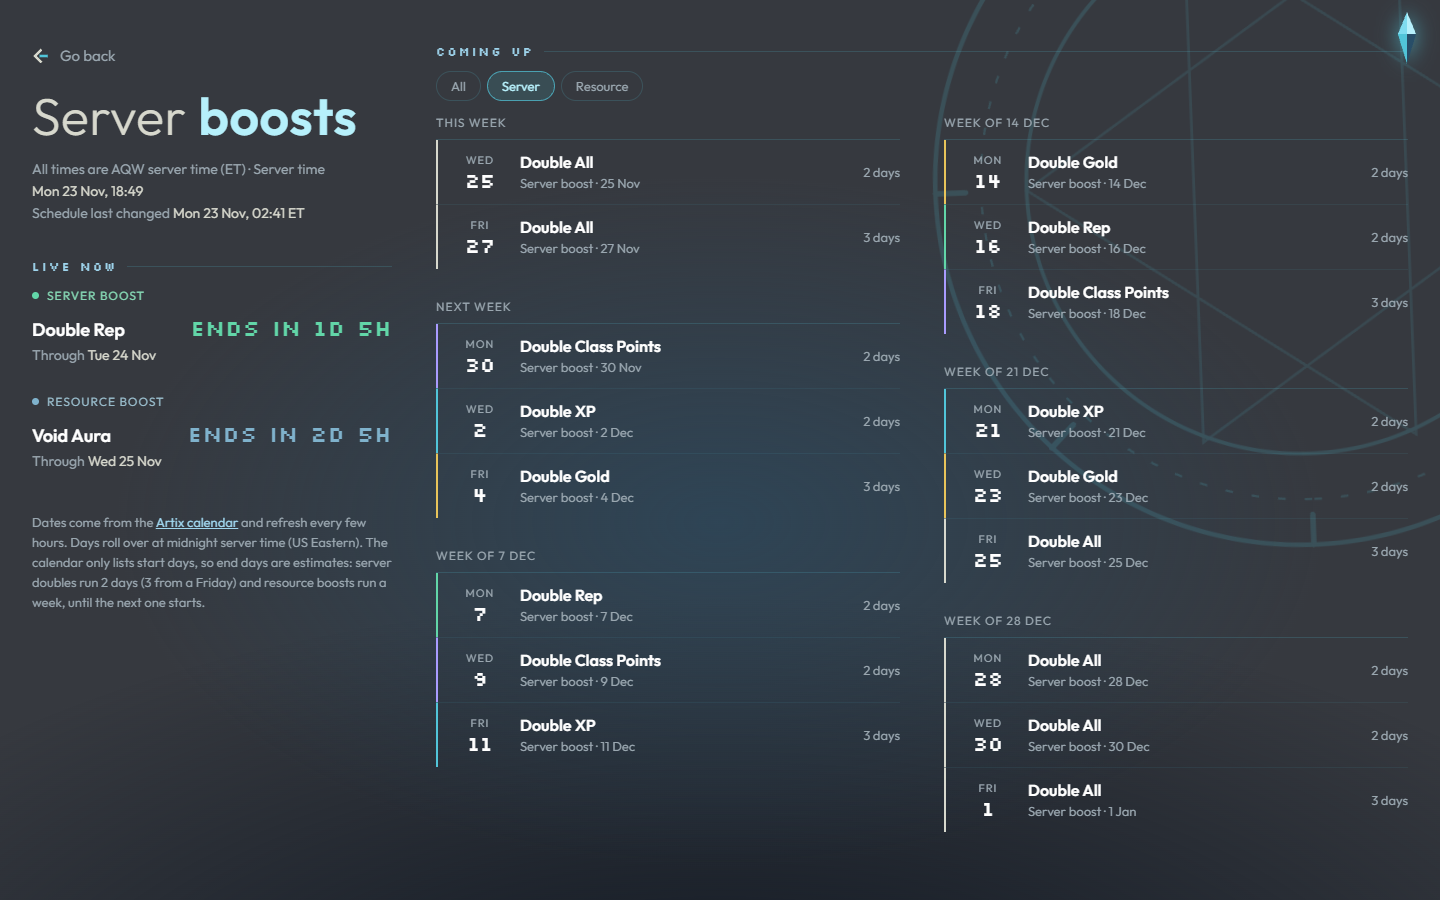
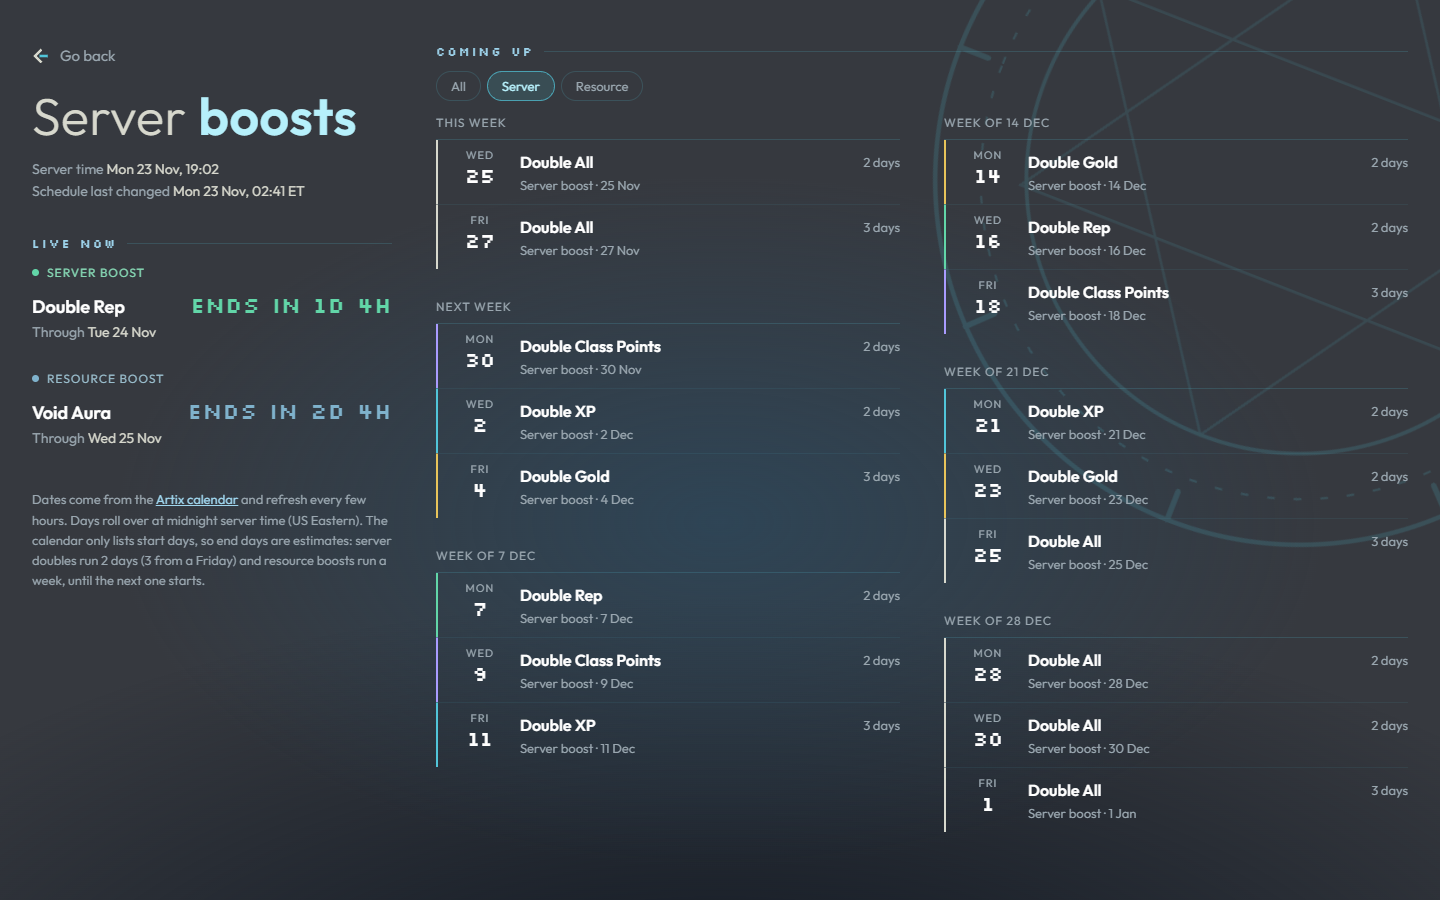
Implement ui-refine-checklist; verify and record home and boosts
Checklist:
- Phones: filter chips behind a "Filter by tag" button, closed by default;
  My goals starts collapsed when there are no goals
- Desktop: sidebar stays in view (sticky, shared with boosts); one column of
  items with the name on the left and tags flowing right
- Tags: paywall tags share one warm hue; other tags are neutral
- Progress bars: solid colour; corners 6px for controls, 4px for tags

Home and boosts:
- Home: remove glow from the menu connector line, delete unused
  sub-page corner-menu CSS, record the label-hover decision
- Boosts: verify results recorded; after screenshots filed

Design rules for these changes are recorded in design-principles.md.

diff --git a/checklist/index.html b/checklist/index.html
@@ -26,8 +26,8 @@
 header{margin-bottom:28px}
 
 .progress{display:flex;align-items:center;gap:14px;margin-top:18px;width:100%}
-.bar{flex:1;height:8px;border-radius:999px;background:rgba(13,21,32,.6);border:1px solid var(--edge);overflow:hidden}
-.bar i{display:block;height:100%;width:0;background:linear-gradient(90deg,var(--steel),var(--ice));transition:width .4s ease}
+.bar{flex:1;height:8px;border-radius:4px;background:rgba(13,21,32,.6);border:1px solid var(--edge);overflow:hidden}
+.bar i{display:block;height:100%;width:0;background:var(--ice);transition:width .4s ease}
 .count{font-family:"Silkscreen",monospace;font-size:13px;letter-spacing:.08em;color:var(--plate);white-space:nowrap}
 
 .gtoggle{display:inline-flex;align-items:center;gap:10px;padding:4px 0;margin:-4px 0;background:none;border:0;font:inherit;letter-spacing:inherit;text-transform:inherit;color:inherit;cursor:pointer}
@@ -59,7 +59,7 @@ section{margin-bottom:34px}
 .done .name a{color:var(--ice-hi)}
 .status{font-size:12px;color:var(--good)}
 .tags{display:flex;flex-wrap:wrap;gap:6px;margin-top:8px}
-.tag{font-size:12px;line-height:1;padding:5px 8px;border-radius:6px;border:1px solid var(--edge);background:rgba(13,21,32,.5);color:var(--frost);white-space:nowrap}
+.tag{font-size:12px;line-height:1;padding:5px 8px;border-radius:4px;border:1px solid var(--edge);background:rgba(13,21,32,.5);color:var(--frost);white-space:nowrap}
 .tag.legend{font-family:"Silkscreen",monospace;font-size:10px;letter-spacing:.06em;padding:6px 8px}
 .tag.dmg b{color:var(--c-dmg);font-weight:600}
 .tag.xp b{color:#7fdcef}
@@ -79,7 +79,7 @@ section{margin-bottom:34px}
 @media (max-width:560px){.frow{grid-template-columns:1fr;gap:6px}.flabel{padding-top:0}.flabel:empty{display:none}}
 .tag.f2p{font-family:"Silkscreen",monospace;font-size:10px;letter-spacing:.06em;padding:6px 8px}
 .ftag.f2p{font-family:"Silkscreen",monospace;font-size:10.5px;letter-spacing:.05em}
-.ftag{display:inline-flex;align-items:center;gap:0;font:inherit;font-size:12.5px;line-height:1;padding:6px 10px;border-radius:999px;border:1px solid var(--edge);background:rgba(13,21,32,.45);color:var(--muted);cursor:pointer;transition:color .15s,border-color .15s,background .15s,opacity .15s}
+.ftag{display:inline-flex;align-items:center;gap:0;font:inherit;font-size:12.5px;line-height:1;padding:6px 10px;border-radius:4px;border:1px solid var(--edge);background:rgba(13,21,32,.45);color:var(--muted);cursor:pointer;transition:color .15s,border-color .15s,background .15s,opacity .15s}
 .ftag:hover{color:var(--frost);border-color:color-mix(in srgb,var(--ice) 60%,transparent)}
 .ftag:focus-visible{outline:1px dashed var(--ice);outline-offset:2px}
 .ftag i{font-style:normal;font-family:"Silkscreen",monospace;font-size:11px;width:0;margin-right:0;overflow:hidden;transition:width .15s,margin .15s}
@@ -106,7 +106,7 @@ section{margin-bottom:34px}
 .card p{font-size:13.5px;line-height:1.55;color:var(--muted)}
 .card p b{color:var(--frost);font-weight:400}
 .row{display:flex;flex-wrap:wrap;gap:8px;margin-top:12px}
-.btn{display:inline-flex;align-items:center;gap:8px;font:inherit;font-size:14px;color:var(--frost);background:rgba(13,21,32,.55);border:1px solid var(--edge);border-radius:10px;padding:8px 14px;cursor:pointer;text-decoration:none;transition:border-color .15s,color .15s,background .15s}
+.btn{display:inline-flex;align-items:center;gap:8px;font:inherit;font-size:14px;color:var(--frost);background:rgba(13,21,32,.55);border:1px solid var(--edge);border-radius:6px;padding:8px 14px;cursor:pointer;text-decoration:none;transition:border-color .15s,color .15s,background .15s}
 .btn:hover,.btn:focus-visible{border-color:var(--ice);color:#fff;outline:none}
 .btn.primary{background:var(--ice);border-color:var(--ice);color:var(--abyss);font-weight:600}
 .btn.primary:hover,.btn.primary:focus-visible{background:var(--ice-hi);border-color:var(--ice-hi);color:var(--abyss)}
@@ -114,7 +114,7 @@ section{margin-bottom:34px}
 .bm b{font-family:"Silkscreen",monospace;font-weight:400;font-size:12px;letter-spacing:.06em;color:var(--plate)}
 ol.steps{margin:10px 0 0 18px;padding:0;font-size:13.5px;line-height:1.6;color:var(--muted)}
 ol.steps b{color:var(--frost);font-weight:400}
-textarea{width:100%;min-height:84px;margin-top:12px;resize:vertical;font:12.5px/1.5 ui-monospace,SFMono-Regular,Menlo,monospace;color:var(--frost);background:rgba(13,21,32,.6);border:1px solid var(--edge);border-radius:10px;padding:10px}
+textarea{width:100%;min-height:84px;margin-top:12px;resize:vertical;font:12.5px/1.5 ui-monospace,SFMono-Regular,Menlo,monospace;color:var(--frost);background:rgba(13,21,32,.6);border:1px solid var(--edge);border-radius:6px;padding:10px}
 textarea:focus{outline:none;border-color:var(--ice)}
 details{margin-top:12px}
 summary{cursor:pointer;font-size:13.5px;color:var(--plate)}
@@ -129,7 +129,7 @@ summary{cursor:pointer;font-size:13.5px;color:var(--plate)}
 /* My goals: your own farming goals, added on this page */
 .goalwrap[hidden]{display:none!important}
 .goalform{display:grid;grid-template-columns:minmax(0,1fr) 130px auto;gap:8px;margin-bottom:14px}
-.goalform input{min-width:0;font:inherit;font-size:14px;color:var(--frost);background:rgba(13,21,32,.6);border:1px solid var(--edge);border-radius:10px;padding:9px 12px}
+.goalform input{min-width:0;font:inherit;font-size:14px;color:var(--frost);background:rgba(13,21,32,.6);border:1px solid var(--edge);border-radius:6px;padding:9px 12px}
 .goalform input::placeholder{color:var(--muted)}
 .goalform input:focus{outline:none;border-color:var(--ice)}
 .goalform .gf-note{grid-column:1/-1}
@@ -143,16 +143,35 @@ summary{cursor:pointer;font-size:13.5px;color:var(--plate)}
 .gact .gdel:hover{color:#f0a3a3;background:rgba(240,163,163,.08)}
 .gtext{margin-top:6px;font-size:13.5px;line-height:1.5;color:var(--muted);overflow-wrap:anywhere}
 .amt{display:flex;align-items:center;gap:8px;margin-top:10px}
-.amt button{width:28px;height:28px;flex:none;display:grid;place-items:center;font:inherit;font-size:16px;line-height:1;color:var(--frost);background:rgba(13,21,32,.55);border:1px solid var(--edge);border-radius:8px;cursor:pointer}
+.amt button{width:28px;height:28px;flex:none;display:grid;place-items:center;font:inherit;font-size:16px;line-height:1;color:var(--frost);background:rgba(13,21,32,.55);border:1px solid var(--edge);border-radius:6px;cursor:pointer}
 .amt button:hover,.amt button:focus-visible{border-color:var(--ice);outline:none}
-.amt input{width:78px;font:inherit;font-size:14px;text-align:right;color:#fff;background:rgba(13,21,32,.6);border:1px solid var(--edge);border-radius:8px;padding:4px 8px;-moz-appearance:textfield}
+.amt input{width:78px;font:inherit;font-size:14px;text-align:right;color:#fff;background:rgba(13,21,32,.6);border:1px solid var(--edge);border-radius:6px;padding:4px 8px;-moz-appearance:textfield}
 .amt input::-webkit-inner-spin-button,.amt input::-webkit-outer-spin-button{-webkit-appearance:none;margin:0}
 .amt input:focus{outline:none;border-color:var(--ice)}
 .amt .of{font-family:"Silkscreen",monospace;font-size:12px;letter-spacing:.06em;color:var(--plate);white-space:nowrap}
-.amt .mbar{flex:1;min-width:40px;height:6px;border-radius:999px;background:rgba(13,21,32,.6);border:1px solid var(--edge);overflow:hidden}
-.amt .mbar i{display:block;height:100%;background:linear-gradient(90deg,var(--steel),var(--ice));transition:width .3s ease}
+.amt .mbar{flex:1;min-width:40px;height:6px;border-radius:4px;background:rgba(13,21,32,.6);border:1px solid var(--edge);overflow:hidden}
+.amt .mbar i{display:block;height:100%;background:var(--ice);transition:width .3s ease}
 @media (min-width:1100px){.goalform{grid-template-columns:minmax(0,1fr) 130px auto}}
 @media (prefers-reduced-motion:reduce){.bar i,.check span svg,.toast{transition:none}}
+/* Phones: filters behind one button, closed by default (1.1) */
+.ftoggle{display:none}
+@media (max-width:560px){
+  .filterbar h2{display:none}
+  .ftoggle{display:flex;align-items:center;justify-content:space-between;width:100%;font:inherit;font-size:14px;color:var(--frost);background:rgba(13,21,32,.55);border:1px solid var(--edge);border-radius:6px;padding:10px 12px;cursor:pointer;text-align:left}
+  .ftoggle:focus-visible{outline:1px dashed var(--ice);outline-offset:2px}
+  #filters,#fstate{display:none}
+  .filterbar.open #filters,.filterbar.open #fstate{display:block}
+}
+/* Paywall tags share one warm hue; every other tag is neutral (3.1) */
+.tag.legend,.ftag.legend,.tag.ac,.ftag.ac,.tag.ioda,.ftag.ioda,.tag.sdka,.ftag.sdka,.tag.legion,.ftag.legion,.tag.heromart,.ftag.heromart,.tag.kickstarter,.ftag.kickstarter{--c:var(--c-ac)}
+.tag.seasonal,.ftag.seasonal,.tag.pseudo,.ftag.pseudo,.tag.rare,.ftag.rare,.tag.range,.ftag.range{--c:var(--frost)}
+.tag.dmg b,.tag.xp b,.tag.cp b,.tag.rep b,.tag.gold b{color:var(--frost)}
+/* Desktop: one column, name on the left in a fixed column, tags flowing right (4.1) */
+@media (min-width:1100px){
+  .list{display:grid;grid-template-columns:1fr;column-gap:0}
+  .item:not(.goal)>div{display:grid;grid-template-columns:280px minmax(0,1fr);align-items:center;column-gap:16px}
+  .item:not(.goal) .tags{margin-top:0}
+}
 </style>
 </head>
 <body class="page">
@@ -175,6 +194,7 @@ summary{cursor:pointer;font-size:13.5px;color:var(--plate)}
 
   <section class="filterbar" aria-labelledby="f-h">
     <h2 id="f-h">Filter by tag</h2>
+    <button type="button" class="ftoggle" id="ftoggle" aria-expanded="false" aria-controls="filters">Filter by tag</button>
     <div class="ftags" id="filters" role="group" aria-label="Tag filters"></div>
     <p class="fstate" id="fstate"></p>
   </section>
@@ -439,7 +459,7 @@ summary{cursor:pointer;font-size:13.5px;color:var(--plate)}
       (g ? '<button type="button" class="gf-cancel" data-act="cancel">Cancel editing</button>' : "") + "</form>";
   }
   function goalsSectionHtml(items) {
-    var shut = isCollapsed("goals", false), open = items.filter(function (it) { return !isDone(it); });
+    var shut = isCollapsed("goals", items.length === 0), open = items.filter(function (it) { return !isDone(it); });
     var have = items.length - open.length;
     var body = open.map(goalHtml).join("") || '<li class="empty">' + (items.length ? "All your goals are done. Nice." : "Add something you want to farm, with an amount if it stacks. Goals stay in this browser and go with your exports.") + "</li>";
     return '<section class="grp' + (shut ? " is-shut" : "") + '">' +
@@ -471,6 +491,7 @@ summary{cursor:pointer;font-size:13.5px;color:var(--plate)}
     document.getElementById("lists").innerHTML = html;
     renderFilters();
     var vis = BUILTIN.filter(visible).length, fn = Object.keys(filters).length;
+    document.getElementById("ftoggle").textContent = "Filter by tag" + (fn ? " · " + fn + " on" : "");
     document.getElementById("fstate").textContent = fn ? "Showing " + vis + " of " + BUILTIN.length + " items (your goals always show)" : "Click a tag to show only items with it, again to hide them, again to clear.";
     var n = ALL.filter(function (it) { return state.progress[it.id] && state.progress[it.id].done; }).length;
     document.getElementById("count").textContent = n + " / " + ALL.length;
@@ -540,6 +561,10 @@ summary{cursor:pointer;font-size:13.5px;color:var(--plate)}
     save(); render();
   });
 
+  document.getElementById("ftoggle").addEventListener("click", function () {
+    var open = this.closest(".filterbar").classList.toggle("open");
+    this.setAttribute("aria-expanded", String(open));
+  });
   document.getElementById("filters").addEventListener("click", function (e) {
     var b = e.target.closest("button"); if (!b) return;
     if (b.id === "fclear") filters = {};

diff --git a/assets/crystal.css b/assets/crystal.css
@@ -13,7 +13,7 @@
 @keyframes bob{50%{transform:translateY(-6px)}}
 
 .site-nav{position:absolute;top:100%;left:50%;transform:translateX(-50%);display:flex;flex-direction:column;align-items:center;gap:10px;padding-top:16px;pointer-events:none}
-.site-nav::before{content:"";width:1px;height:0;margin-bottom:-4px;background:linear-gradient(var(--ice),transparent);box-shadow:0 0 8px var(--ice);transition:height .3s ease}
+.site-nav::before{content:"";width:1px;height:0;margin-bottom:-4px;background:linear-gradient(var(--ice),transparent);transition:height .3s ease}
 .site-nav a{display:flex;flex-direction:column;align-items:center;gap:3px;min-width:170px;padding:11px 20px;text-decoration:none;border-bottom:1px solid var(--edge);
   opacity:0;transform:translateY(-10px) scale(.96);transition:opacity .25s ease,transform .3s ease,border-color .15s}
 .site-nav a b{font-family:"Silkscreen",monospace;font-weight:400;font-size:15px;letter-spacing:.14em;text-transform:uppercase;color:var(--plate)}
@@ -27,12 +27,6 @@
 .is-open .site-nav a:nth-of-type(3){transition-delay:.1s}
 .is-open .site-nav a:nth-of-type(4){transition-delay:.15s}
 
-/* corner variant (sub-pages): small crystal pinned top right, menu drops down on the right */
-.crystal-nav.corner{position:fixed;top:max(10px, env(safe-area-inset-top, 0px));right:max(6px, env(safe-area-inset-right, 0px))}
-.corner .crystal{width:26px;filter:drop-shadow(0 0 10px rgba(81,197,217,.75))}
-.corner .crystal-btn{padding:8px 14px}
-.corner .site-nav{left:auto;right:0;transform:none;align-items:flex-end;padding-top:10px}
-.corner .site-nav::before{margin-right:27px}
 
 /* cracking ice, on click */
 .cracks path{stroke-dasharray:1;stroke-dashoffset:1;opacity:.95;filter:drop-shadow(0 0 1.5px #fff);transition:stroke-dashoffset .35s cubic-bezier(.3,.7,.2,1)}
@@ -49,9 +43,6 @@
 .shards i:nth-child(4){--x:38px;--y:12px;--r:210deg;width:5px;height:7px}
 .shards i:nth-child(5){--x:-18px;--y:34px;--r:-90deg;width:4px;height:6px}
 .shards i:nth-child(6){--x:20px;--y:36px;--r:120deg}
-.corner .shards i{--s:.6}
-.corner .shards i:nth-child(odd){--x:-22px}
-.corner .shards i:nth-child(even){--x:20px}
 @keyframes shard{0%{opacity:1;transform:translate(0,0) rotate(0) scale(1)}100%{opacity:0;transform:translate(var(--x),var(--y)) rotate(var(--r)) scale(.6)}}
 
 @media (prefers-reduced-motion:reduce){.crystal,.crystal-btn.shake .crystal{animation:none}.burst .shards i{animation:none}.cracks path,.site-nav a,.site-nav::before{transition:none}}

diff --git a/assets/ice.css b/assets/ice.css
@@ -56,6 +56,7 @@ a.plate:hover,a.plate:focus-visible{color:var(--ice-hi);outline:none}
   /* Desktop: title and tools in a left sidebar (width via --side-w), the main list fills the rest */
   :where(.page) .wrap{width:min(100% - 64px,1720px);display:grid;grid-template-columns:var(--side-w,360px) minmax(0,1fr);column-gap:44px;grid-template-areas:"side main" "side2 main";grid-template-rows:auto 1fr;align-items:start}
   :where(.page) .side{grid-area:side}
+  :where(.page) .side{position:sticky;top:24px;max-height:calc(100vh - 48px);overflow:auto}
   :where(.page) .main{grid-area:main;padding-top:4px}
   :where(.page) .side2{grid-area:side2}
 }

diff --git a/docs/ui-reviews/ui-refine-checklist/tasks.md b/docs/ui-reviews/ui-refine-checklist/tasks.md
@@ -1,0 +1,36 @@
+# Tasks
+
+## 1. Phones: first item on the first screen
+
+- [x] 1.1 Below 560px, put the "Filter by tag" chips behind one button, closed by default, showing the number of active filters. In `checklist/index.html`, change the filter section (around lines 175-179) and its CSS.
+- [x] 1.2 Collapse My goals when there are no goals (`isCollapsed("goals", false)` around line 441). Open it when goals exist. Check that the first item starts within the first 844px at 390px wide.
+
+## 2. Desktop: the filter stays in view
+
+- [x] 2.1 In `assets/ice.css`, at `min-width:1100px`, make `.side` sticky: `position:sticky; top:24px; max-height:calc(100vh - 48px); overflow:auto`. This is shared with boosts, so check boosts at 1440px too.
+
+## 3. Tags: colour only the paywall tags
+
+- [x] 3.1 Keep the colour on Legend, SDKA, AC, IoDA and Legion. Make the other tag kinds neutral, keeping their text labels (tag colour tokens around lines 17-23, tag styles around lines 61-71).
+
+## 4. Items: one column on desktop
+
+- [x] 4.1 At `min-width:1100px`, change the item grid (line 98, `repeat(auto-fill,minmax(290px,1fr))`) to one column. Put the name in a fixed-width left column and let the tags flow to the right, wrapping only when needed.
+
+## 5. Progress bars: solid fill
+
+- [x] 5.1 Replace the gradient on `.bar i` (line 29) and `.amt .mbar i` (line 152) with a single colour, `var(--ice)`.
+
+## 6. Corners
+
+- [x] 6.1 Buttons, inputs, textarea and amount controls: 6px. Item tags and filter chips: 4px. Remove the 999px pills (lines 28, 81).
+
+## 7. Check
+
+- [x] 7.1 Check the checklist at 360×740, 390×844 and 1440×900, closed and with items ticked and a filter on. Check boosts at 1440px for the sticky sidebar.
+- [ ] 7.2 (User runs) `/ui-review --verify ui-refine-checklist` for Before/After. The implementer does not check this task.
+
+## Implementation notes
+
+- 3.1: the paywall tags share one warm hue (`--c-ac`), as chosen in the review; their labels still tell them apart.
+- 1.2: My goals is collapsed by default only when there are no goals; once the visitor toggles it, their choice is kept.

diff --git a/docs/ui-reviews/ui-refine-checklist/proposal.md b/docs/ui-reviews/ui-refine-checklist/proposal.md
@@ -1,0 +1,30 @@
+# Proposal
+
+## Why
+
+The checklist is the page people use to track gear, but the layout works against scanning it:
+
+- On a phone, the filter chips and the goals form take about 1000px, so the first item starts below the first screen.
+- On desktop the filter sidebar scrolls out of view while the list continues.
+- Each item shows 3 to 8 coloured tags in about ten hues, which dilutes what the colours mean.
+- On desktop, items run in three columns, so names wrap and rows vary in height.
+- The progress bars use a gradient, and the corner radii are mixed (6, 7, 8, 10px and pills).
+
+## What Changes
+
+- Phones (560px and below): filter chips behind a "Filter by tag" button, closed by default; My goals collapsed when there are no goals.
+- Desktop (1100px and up): the sidebar stays in view while the list scrolls.
+- Tags: only the paywall tags (Legend, SDKA, AC, IoDA, Legion) keep a colour; the others are neutral with their text labels.
+- Desktop items: one column, the name on the left in a fixed-width column, tags flowing to the right.
+- Progress bars: a single solid colour.
+- Corners: buttons, inputs and amount controls 6px; tags and filter chips 4px; no pills.
+- Reference layouts were checked from page text only: Paimon.moe Achievement (a "not achieved first" toggle) and the OSRS Wiki Collection log (one list per section with totals). Their visual layout was not confirmed.
+- Data and behaviour (ticking, goals, sync, import and export, filters) do not change.
+
+## Impact
+
+- Files: `checklist/index.html` (filter and goals layout, tag colours, item grid, bar fill, radii); `assets/ice.css` (`.side` sticky, shared with boosts).
+- Affected other screens: boosts, through the shared sticky sidebar. Check boosts at 1440px.
+- Tests: none in this project.
+- Verify: `/ui-review --verify ui-refine-checklist` (Before/After and a check on a real phone).
+- Before screenshots: `screenshots/before-*.png` (4 items ticked and the F2P filter on for the ticked states).

diff --git a/docs/design-principles.md b/docs/design-principles.md
@@ -8,10 +8,14 @@
 - 例外を作るときは、ルールを消さずに例外として追記する。
 
 ## 形と区切り
+- 一覧は1列で上から下に読む。項目名は左、タグは右に流す（ui-refine-checklist）
+- 操作部品の角丸は6px、タグは4px。ピル形は使わない（ui-refine-checklist）
 - 一覧の種類は行の左の2pxの罫線で示す（ui-refine-boosts）
 - メニュー項目は箱ではなく1pxの罫線で区切る（ui-refine-home）
 
 ## 色と階層
+- タグの色は課金区分だけに使い、それ以外は無彩色にする（ui-refine-checklist）
+- 進捗バーは単色で塗る（ui-refine-checklist）
 - 見出しの区切り線は単色の1pxにする（ui-refine-boosts）
 - グロー（text-shadow / drop-shadow）は結晶だけに使う（ui-refine-home）
 
@@ -19,6 +23,8 @@
 - 操作を示す説明文は12px以上にする（ui-refine-home）
 
 ## 余白とレイアウト
+- モバイルでは最初の一覧行が最初の画面に入るよう、フィルタとフォームは折りたたむ（ui-refine-checklist）
+- デスクトップの絞り込みは一覧のスクロールに追従させる（ui-refine-checklist）
 - ライブ中の項目は残り時間を最も大きな数字として右に置き、次の予定は一覧に任せる（ui-refine-boosts）
 - 一覧の補助情報（日数）は行の右端に置き、行を折り返さない（ui-refine-boosts）
 - 週ごとの一覧は読む順番を上から下に保つ（グリッドで横に並べない）（ui-refine-boosts）

diff --git a/docs/ui-reviews/ui-refine-boosts/tasks.md b/docs/ui-reviews/ui-refine-boosts/tasks.md
@@ -38,3 +38,10 @@
 - [x] 8.3 （検証で追加）`a.plate` の hover の drop-shadow を外す（`assets/ice.css`）。ホーム・ブースト・チェックリストに効く
 - [x] 8.4 （検証で追加）ヘッダーの「All times are AQW server time (ET)」を削除する
 - [ ] 8.5 (User runs) `/ui-review --verify ui-refine-boosts` for Before/After. The implementer does not check this task.
+
+## Verify result (2026-11-24)
+
+- All checks passed on the rendered page at 360, 390 and 1440px (Live rows, left rules, day count, column order, glow removed, header line, no crystal on boosts).
+- Row height 64–65px at 390px: accepted as is.
+- Home nameplate outline (text-shadow, not a glow): kept as is.
+- Not checked: the idle card state (no live boost), the Resource filter, and the empty state; the current data always has live boosts.

diff --git a/docs/ui-reviews/ui-refine-home/tasks.md b/docs/ui-reviews/ui-refine-home/tasks.md
@@ -16,4 +16,7 @@
 ## 4. Check
 
 - [x] 4.1 Check the home page at 360×740, 390×844 and 1440×900, closed and with the menu open.
-- [ ] 4.2 (User runs) `/ui-review --verify ui-refine-home` for Before/After. The implementer does not check this task.
+- [x] 4.2 （検証で追加）メニューの接続線（`.site-nav::before`）の box-shadow を外す（`assets/crystal.css`）
+- [x] 4.3 （検証で追加）ブースト・チェックリスト用のコーナーメニューの未使用 CSS を削除する（`assets/crystal.css`）
+- [x] 4.4 （検証で追加）メニュー項目の hover で文字色も明るくする。タスク 1.1 の「罫線の色だけ変える」を、この方針に合わせて読み替える
+- [ ] 4.5 (User runs) `/ui-review --verify ui-refine-home` for Before/After. The implementer does not check this task.
